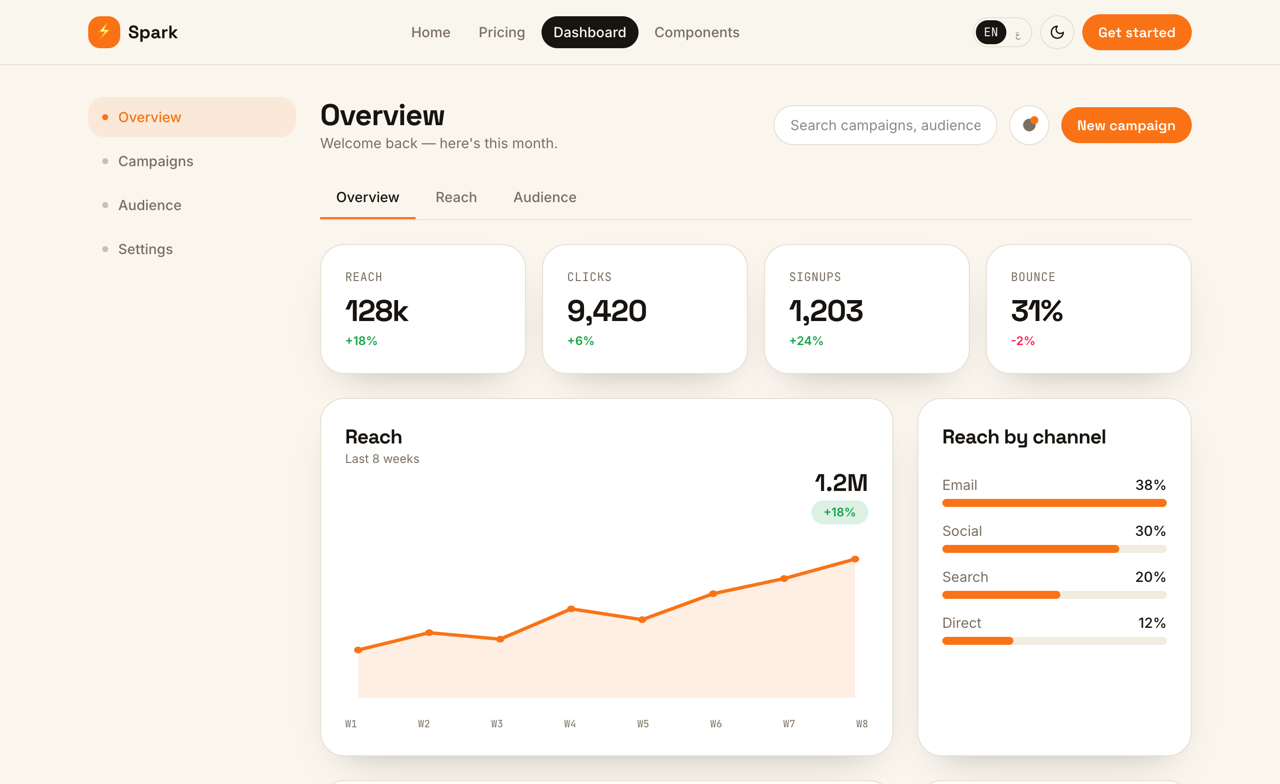
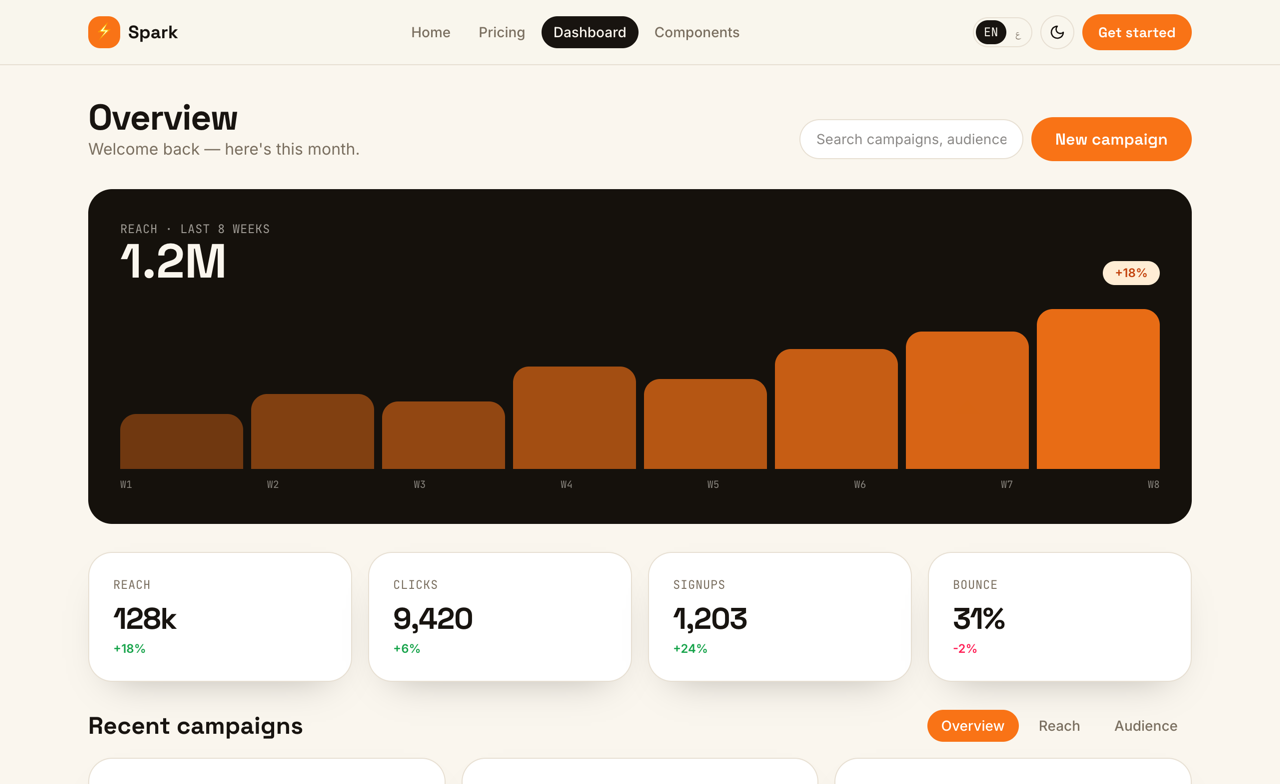
feat(dashboard): distinct campaigns board (dark hero band + campaign cards)

diff --git a/react/src/routes/dashboard.tsx b/react/src/routes/dashboard.tsx
@@ -2,38 +2,20 @@ import { Badge } from "../components/badge";
 import { Button } from "../components/button";
 import { Card, CardContent, CardHeader, CardTitle } from "../components/card";
 import { Container } from "../components/container";
+import { Avatar } from "../components/data-display";
+import { Progress } from "../components/feedback";
 import { StatCards } from "../blocks/stat-cards";
 import { useI18n } from "../i18n";
 
-/** Inline area chart — no chart lib, pure SVG, themed via currentColor. */
-function AreaChart({ series }: { series: number[] }) {
+/** Full-bleed bar chart for the marketing "board" hero. */
+function Bars({ series }: { series: number[] }) {
   const max = Math.max(...series);
-  const w = 320;
-  const h = 120;
-  const pad = 8;
-  const pts = series.map((v, i) => [
-    pad + (i / (series.length - 1)) * (w - pad * 2),
-    h - pad - (v / max) * (h - pad * 2),
-  ]);
-  const line = pts.map((p) => p.join(",")).join(" ");
-  const area = `${pad},${h - pad} ${line} ${w - pad},${h - pad}`;
   return (
-    <svg viewBox={`0 0 ${w} ${h}`} className="h-40 w-full text-primary" preserveAspectRatio="none">
-      <polygon points={area} fill="currentColor" opacity="0.12" />
-      <polyline points={line} fill="none" stroke="currentColor" strokeWidth="2.5" strokeLinejoin="round" strokeLinecap="round" />
-      {pts.map((p, i) => (
-        <circle key={i} cx={p[0]} cy={p[1]} r="2.5" fill="currentColor" />
+    <div className="flex h-40 items-end gap-2">
+      {series.map((v, i) => (
+        <div key={i} className="flex-1 rounded-t-[var(--radius)] bg-primary" style={{ height: `${(v / max) * 100}%`, opacity: 0.4 + (i / series.length) * 0.6 }} />
       ))}
-    </svg>
-  );
-}
-
-function Avatar({ name }: { name: string }) {
-  const initials = name.trim().split(/\s+/).slice(0, 2).map((p) => p[0]).join("");
-  return (
-    <span className="grid h-9 w-9 shrink-0 place-items-center rounded-full bg-primary/10 font-display text-sm font-bold text-primary">
-      {initials}
-    </span>
+    </div>
   );
 }
 
@@ -43,178 +25,96 @@ export function Dashboard() {
   const trafficMax = Math.max(...d.traffic.map((x) => x.value));
 
   return (
-    <Container className="py-8">
-      <div className="flex gap-6">
-        {/* Sidebar */}
-        <aside className="hidden w-52 shrink-0 lg:block">
-          <nav className="space-y-1 text-sm font-medium">
-            {d.nav.map((item, i) => (
-              <a
-                key={item}
-                href="#"
-                className={
-                  "flex items-center gap-2.5 rounded-[var(--radius)] px-3.5 py-2.5 " +
-                  (i === 0 ? "bg-primary/10 text-primary" : "text-muted-foreground hover:bg-muted")
-                }
-              >
-                <span className={"h-1.5 w-1.5 rounded-full " + (i === 0 ? "bg-primary" : "bg-muted-foreground/40")} />
-                {item}
-              </a>
-            ))}
-          </nav>
-        </aside>
+    <Container className="space-y-7 py-8">
+      {/* Header — no sidebar; a marketing board */}
+      <div className="flex flex-wrap items-end justify-between gap-4">
+        <div>
+          <h1 className="font-display text-4xl font-bold tracking-tight">{d.title}</h1>
+          <p className="text-muted-foreground">{d.subtitle}</p>
+        </div>
+        <div className="flex items-center gap-2">
+          <input placeholder={d.search} className="hidden h-10 w-56 rounded-full border border-border bg-card px-4 text-sm outline-none focus:border-primary sm:block" />
+          <Button>{d.action}</Button>
+        </div>
+      </div>
 
-        {/* Main */}
-        <main className="min-w-0 flex-1 space-y-6">
-          {/* Topbar */}
-          <div className="flex flex-wrap items-center gap-3">
-            <div className="min-w-0 flex-1">
-              <h1 className="font-display text-3xl font-bold tracking-tight">{d.title}</h1>
-              <p className="text-sm text-muted-foreground">{d.subtitle}</p>
-            </div>
-            <input
-              placeholder={d.search}
-              className="hidden h-10 w-56 rounded-full border border-border bg-card px-4 text-sm outline-none focus:border-primary md:block"
-            />
-            <button className="relative grid h-10 w-10 place-items-center rounded-full border border-border bg-card text-muted-foreground">
-              <span className="absolute right-2.5 top-2.5 h-2 w-2 rounded-full bg-primary" />●
-            </button>
-            <Button size="sm">{d.action}</Button>
+      {/* Reach hero — full-width chart band */}
+      <div className="rounded-[var(--radius-lg)] bg-ink p-8 text-ink-foreground">
+        <div className="flex items-end justify-between">
+          <div>
+            <p className="font-mono text-xs uppercase tracking-wide text-ink-foreground/60">{d.chartTitle} · {d.chartCaption}</p>
+            <p className="font-display text-5xl font-bold">{d.chartTotal}</p>
           </div>
+          <Badge variant="brand">+18%</Badge>
+        </div>
+        <div className="mt-6"><Bars series={d.series} /></div>
+        <div className="mt-2 flex justify-between font-mono text-[10px] uppercase text-ink-foreground/50">
+          {d.months.map((m) => <span key={m}>{m}</span>)}
+        </div>
+      </div>
 
-          {/* Tabs */}
-          <div className="flex gap-1 border-b border-border">
+      <StatCards stats={d.stats} />
+
+      {/* Campaign cards (a board, not a table) */}
+      <div>
+        <div className="mb-4 flex items-center justify-between">
+          <h2 className="font-display text-2xl font-bold">{d.tableTitle}</h2>
+          <div className="flex gap-1.5">
             {d.tabs.map((tab, i) => (
-              <button
-                key={tab}
-                className={
-                  "border-b-2 px-4 py-2.5 text-sm font-medium " +
-                  (i === 0 ? "border-primary text-foreground" : "border-transparent text-muted-foreground hover:text-foreground")
-                }
-              >
-                {tab}
-              </button>
+              <button key={tab} className={"rounded-full px-3.5 py-1.5 text-sm font-medium " + (i === 0 ? "bg-primary text-primary-foreground" : "text-muted-foreground hover:bg-muted")}>{tab}</button>
             ))}
           </div>
-
-          <StatCards stats={d.stats} />
-
-          {/* Charts row */}
-          <div className="grid gap-6 lg:grid-cols-3">
-            <Card className="lg:col-span-2">
+        </div>
+        <div className="grid gap-4 md:grid-cols-3">
+          {d.rows.map((r, i) => (
+            <Card key={r.name}>
               <CardHeader className="flex-row items-start justify-between">
-                <div>
-                  <CardTitle>{d.chartTitle}</CardTitle>
-                  <p className="text-xs text-muted-foreground">{d.chartCaption}</p>
-                </div>
-                <div className="text-end">
-                  <p className="font-display text-2xl font-bold">{d.chartTotal}</p>
-                  <Badge variant="success">+18%</Badge>
-                </div>
+                <CardTitle className="text-lg">{r.name}</CardTitle>
+                <Badge variant={r.status === d.active ? "success" : "outline"}>{r.status}</Badge>
               </CardHeader>
               <CardContent>
-                <AreaChart series={d.series} />
-                <div className="mt-2 flex justify-between font-mono text-[10px] uppercase text-muted-foreground">
-                  {d.months.map((m) => (
-                    <span key={m}>{m}</span>
-                  ))}
-                </div>
+                <p className="font-display text-3xl font-bold">{r.reach}</p>
+                <p className="font-mono text-[11px] uppercase text-muted-foreground">reach</p>
+                <Progress value={[72, 38, 90][i] ?? 60} className="mt-4" />
               </CardContent>
             </Card>
+          ))}
+        </div>
+      </div>
 
-            <Card>
-              <CardHeader>
-                <CardTitle>{d.trafficTitle}</CardTitle>
-              </CardHeader>
-              <CardContent className="space-y-3.5">
-                {d.traffic.map((row) => (
-                  <div key={row.label}>
-                    <div className="mb-1 flex justify-between text-sm">
-                      <span className="text-muted-foreground">{row.label}</span>
-                      <span className="font-medium">{row.value}%</span>
-                    </div>
-                    <div className="h-2 overflow-hidden rounded-full bg-muted">
-                      <div className="h-full rounded-full bg-primary" style={{ width: `${(row.value / trafficMax) * 100}%` }} />
-                    </div>
-                  </div>
-                ))}
-              </CardContent>
-            </Card>
-          </div>
-
-          {/* Table + activity */}
-          <div className="grid gap-6 lg:grid-cols-3">
-            <Card className="lg:col-span-2">
-              <CardHeader className="flex-row items-center justify-between">
-                <CardTitle>{d.tableTitle}</CardTitle>
-                <Badge variant="brand">live</Badge>
-              </CardHeader>
-              <CardContent>
-                <table className="w-full text-start text-sm">
-                  <thead className="font-mono text-xs uppercase tracking-wide text-muted-foreground">
-                    <tr>
-                      {d.cols.map((c) => (
-                        <th key={c} className="pb-3 text-start font-medium">{c}</th>
-                      ))}
-                    </tr>
-                  </thead>
-                  <tbody>
-                    {d.rows.map((r) => (
-                      <tr key={r.name} className="border-t border-border">
-                        <td className="py-3 font-medium">{r.name}</td>
-                        <td className="py-3">{r.reach}</td>
-                        <td className="py-3">
-                          <Badge variant={r.status === d.active ? "success" : "outline"}>{r.status}</Badge>
-                        </td>
-                      </tr>
-                    ))}
-                  </tbody>
-                </table>
-              </CardContent>
-            </Card>
-
-            <Card>
-              <CardHeader>
-                <CardTitle>{d.activityTitle}</CardTitle>
-              </CardHeader>
-              <CardContent>
-                <ol className="space-y-4">
-                  {d.activity.map((a, i) => (
-                    <li key={i} className="flex gap-3">
-                      <span className="mt-1.5 h-2 w-2 shrink-0 rounded-full bg-primary" />
-                      <div className="min-w-0 flex-1">
-                        <p className="text-sm leading-snug">{a.text}</p>
-                        <p className="font-mono text-[11px] text-muted-foreground">{a.time}</p>
-                      </div>
-                    </li>
-                  ))}
-                </ol>
-              </CardContent>
-            </Card>
-          </div>
-
-          {/* Customers */}
-          <Card>
-            <CardHeader className="flex-row items-center justify-between">
-              <CardTitle>{d.usersTitle}</CardTitle>
-              <Button variant="ghost" size="sm">{d.seeAll}</Button>
-            </CardHeader>
-            <CardContent>
-              <div className="grid gap-3 sm:grid-cols-2">
-                {d.users.map((u) => (
-                  <div key={u.name} className="flex items-center gap-3 rounded-[var(--radius)] border border-border p-3">
-                    <Avatar name={u.name} />
-                    <div className="min-w-0 flex-1">
-                      <p className="truncate font-medium">{u.name}</p>
-                      <p className="truncate text-xs text-muted-foreground">{u.org}</p>
-                    </div>
-                    <Badge variant={u.status === d.trial ? "outline" : "success"}>{u.status}</Badge>
-                  </div>
-                ))}
+      {/* Channels + subscribers */}
+      <div className="grid gap-6 lg:grid-cols-3">
+        <Card className="lg:col-span-1">
+          <CardHeader><CardTitle>{d.trafficTitle}</CardTitle></CardHeader>
+          <CardContent className="space-y-3.5">
+            {d.traffic.map((row) => (
+              <div key={row.label}>
+                <div className="mb-1 flex justify-between text-sm"><span className="text-muted-foreground">{row.label}</span><span className="font-medium">{row.value}%</span></div>
+                <div className="h-2 overflow-hidden rounded-full bg-muted"><div className="h-full rounded-full bg-primary" style={{ width: `${(row.value / trafficMax) * 100}%` }} /></div>
               </div>
-            </CardContent>
-          </Card>
-        </main>
+            ))}
+          </CardContent>
+        </Card>
+        <Card className="lg:col-span-2">
+          <CardHeader className="flex-row items-center justify-between">
+            <CardTitle>{d.usersTitle}</CardTitle>
+            <Button variant="ghost" size="sm">{d.seeAll}</Button>
+          </CardHeader>
+          <CardContent>
+            <div className="grid gap-3 sm:grid-cols-2">
+              {d.users.map((u) => (
+                <div key={u.name} className="flex items-center gap-3 rounded-[var(--radius)] border border-border p-3">
+                  <Avatar name={u.name} />
+                  <div className="min-w-0 flex-1">
+                    <p className="truncate font-medium">{u.name}</p>
+                    <p className="truncate text-xs text-muted-foreground">{u.org}</p>
+                  </div>
+                  <Badge variant={u.status === d.trial ? "outline" : "success"}>{u.status}</Badge>
+                </div>
+              ))}
+            </div>
+          </CardContent>
+        </Card>
       </div>
     </Container>
   );